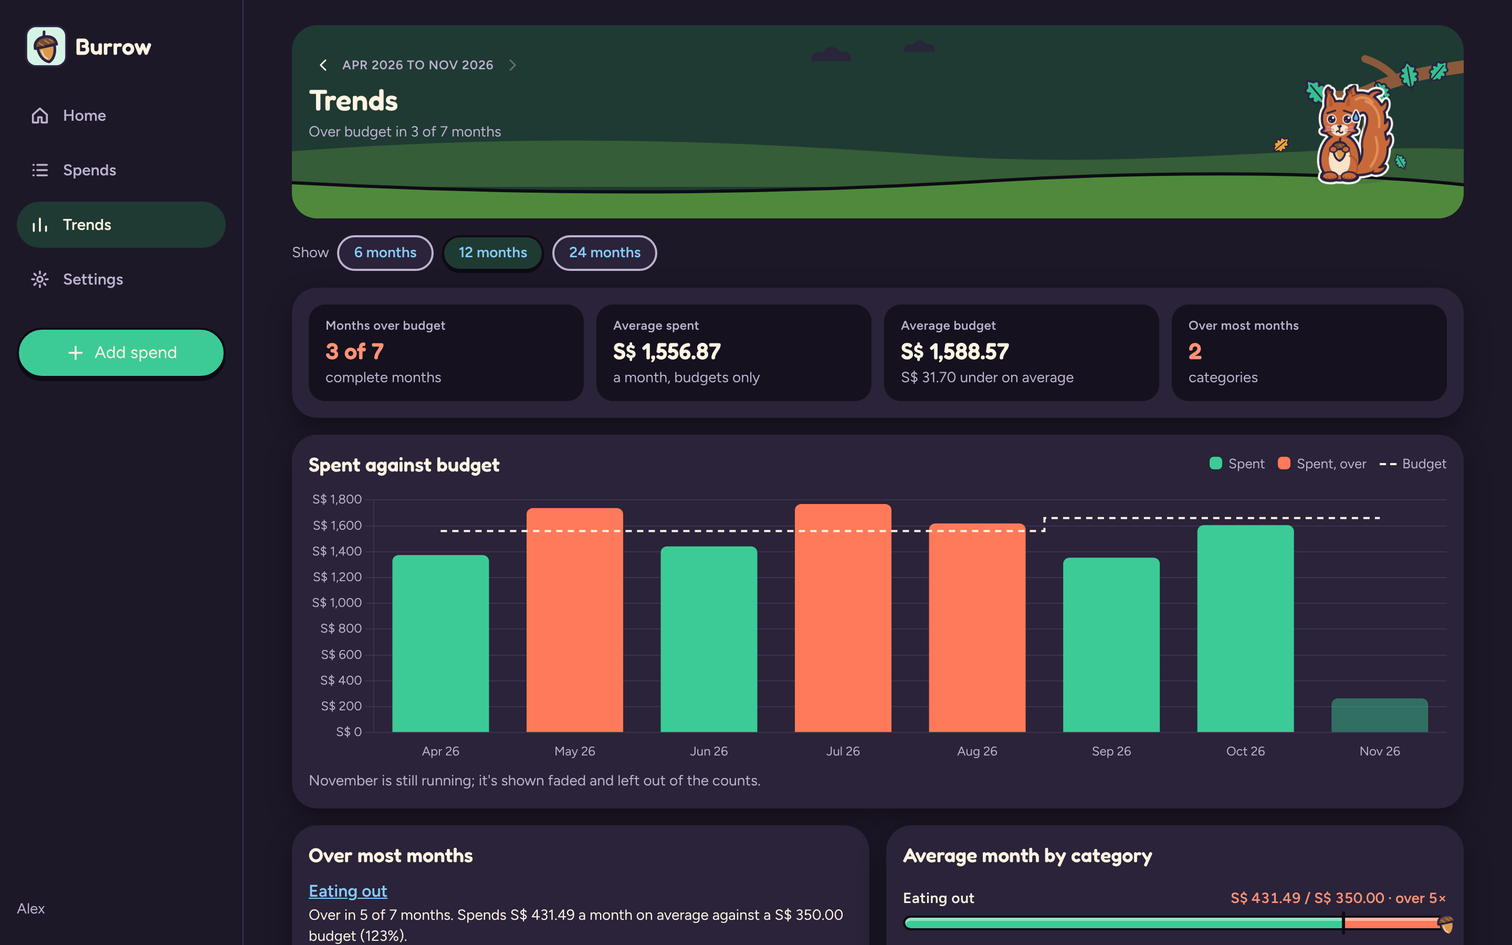
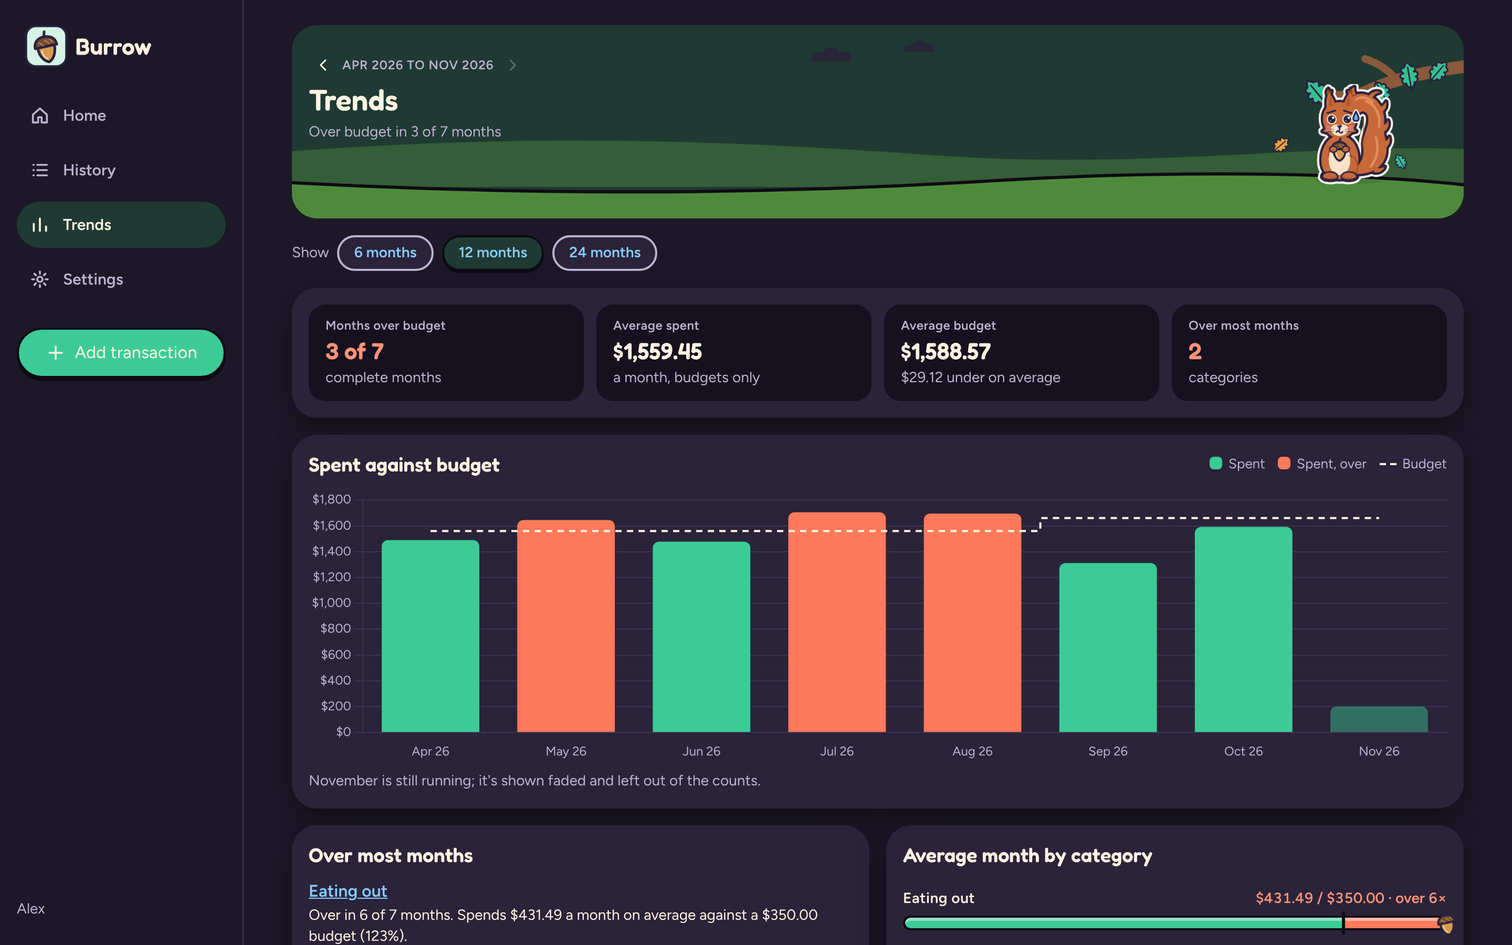
Document income and the new entry flow
Claude-Session: https://claude.ai/code/session_01TeKgyf51vhn4zPjuamFNj3

diff --git a/CLAUDE.md b/CLAUDE.md
@@ -6,7 +6,7 @@ This file provides guidance to Claude Code (claude.ai/code) when working with co
 
 Burrow is a personal finance tracker, published at `github.com/theepicflyer/burrow` (public, AGPL-3.0). It is a **hard fork** of `eitchtee/WYGIWYH`: upstream history is kept up to the fork point, but upstream is not tracked or merged. Internal names still say WYGIWYH (the `app/WYGIWYH/` Django project, `wygiwyh` DB/user, `wygiwyh_*` theme keys); leave them, renaming them buys nothing and breaks existing deployments. User-visible text says Burrow, and the README credits WYGIWYH.
 
-The app is now the **ledger** (`app/apps/ledger/`): a shared household list of spends with budget categories, sinking funds, recurring spends and trends, rebuilt from scratch on its own models and UI. The WYGIWYH apps (accounts, currencies, transactions, budgets, ...) are still installed and reachable under `/legacy/` until the old data has been imported and checked; new work goes in the ledger, not there.
+The app is now the **ledger** (`app/apps/ledger/`): a shared household list of transactions (expenses and income) with budget categories, sinking funds, income categories, recurring transactions and trends, rebuilt from scratch on its own models and UI. The WYGIWYH apps (accounts, currencies, transactions, budgets, ...) are still installed and reachable under `/legacy/` until the old data has been imported and checked; new work goes in the ledger, not there.
 
 The repo is public. Never commit personal data: real names, emails, hostnames, amounts from a real ledger, DB dumps. Use `example.com` and fictional data in docs, tests and screenshots.
 
@@ -83,24 +83,24 @@ Django 5.2 + htmx + django-cotton + Vite for assets. Backed by Postgres 15 and P
 
 ### The ledger (`app/apps/ledger/`)
 
-One shared ledger: every signed-in user sees and edits everything, so ledger models have no `owner`/visibility and views do no per-user filtering (`created_by` only records who entered a spend). There are no accounts or wallet balances.
+One shared ledger: every signed-in user sees and edits everything, so ledger models have no `owner`/visibility and views do no per-user filtering (`created_by` only records who entered a transaction). There are no accounts or wallet balances.
 
-- **`Category`**: `kind` is `budget` (planned monthly spending) or `fund` (sinking fund). Funds also have `opening_balance` and an optional `target`.
+- **`Category`**: `kind` is `budget` (planned monthly spending), `fund` (sinking fund) or `income` (pay, interest; no monthly amount). Funds also have `opening_balance` and an optional `target`. An income category takes income only (forms and MCP refuse an expense there).
 - **`MonthlyAmount`**: effective-dated monthly budget (or fund top-up): the amount for month M is the latest row with `start_month <= M`, 0 before the first. `Category.set_amount(amount, from_month)` changes it from that month on, so **past months keep their amount and past trends never move**. Preserve this; never rewrite old rows to apply a new amount.
-- **`Transaction`**: `amount` is signed (positive = spend, negative = money back or money into a fund), `date` is when it happened or was billed, `month` (day 1) is the month it counts toward. May's transport bill paid on 10 June has `date=2026-06-10, month=2026-05-01`. All budget and fund maths use `month`, never `date`.
-- **`Recurring`**: a schedule (`every` × week/month/year from `start_date`, optional `end_date`, `month_offset` 0 or −1). `services.generate_due()` creates entries only once they fall due (pages and an hourly task call it), so editing a rule changes every entry still to come and nothing already created. `last_generated` is owned by `generate_due`: `Recurring.save()` skips it unless it is named in `update_fields`. Occurrences are computed from `start_date` each time so the 31st never drifts.
+- **`Transaction`**: `type` is `expense` or `income` and `amount` is always positive. Income in a budget or fund category is money back (a refund, or money put into a fund); budget and fund maths use net spend (expenses − income, `services.net_amount()`), and `Book.received()` is its negation for income categories. `date` is when it happened or was billed, `month` (day 1) is the month it counts toward. May's transport bill paid on 10 June has `date=2026-06-10, month=2026-05-01`. All budget and fund maths use `month`, never `date`.
+- **`Recurring`**: a `type`, amount and category on a schedule (`every` × week/month/year from `start_date`, optional `end_date`, `month_offset` 0 or −1). `services.generate_due()` creates entries only once they fall due (pages and an hourly task call it), so editing a rule changes every entry still to come and nothing already created. `last_generated` is owned by `generate_due`: `Recurring.save()` skips it unless it is named in `update_fields`. Occurrences are computed from `start_date` each time so the 31st never drifts.
 - **Fund balance** at the end of M = `opening_balance` + top-ups from the fund's first `MonthlyAmount` month through M − transactions with `month <= M`. It is computed, never stored or materialized.
-- **`services.py`**: `Book` loads all monthly amounts and per-(category, month) totals in two queries; `month_status()` (Home), `analysis()` (Trends: months over, averages, `consistently_over`, fund balance series; running months are `partial` and excluded from counts, as are months before a category had a budget or spend), `category_history()`, `categories_for_entry()` (chips by recent use), `title_suggestions()`, `generate_due()`, `upcoming()`.
+- **`services.py`**: `Book` loads all monthly amounts and per-(category, month) totals in two queries; `month_status()` (Home: budgets, funds, income lines, `income`/`out`/`net`), `analysis()` (Trends: months over, averages, `consistently_over`, fund balance series, monthly in/out `flows`; running months are `partial` and excluded from counts, as are months before a category had a budget or spend), `category_history()`, `categories_for_entry()` (chips by recent use), `title_suggestions()`, `generate_due()`, `upcoming()`.
 - Budgets and funds answer different questions (did spend stay under budget vs what's saved); keep them visually and semantically apart. Home's ring and "left" are budgets only.
-- **`LedgerSettings`** (single row): the currency symbol. Amounts are one currency; there is no conversion.
+- Amounts are one currency, always shown with a plain `$` (`$1,234.50`); there is no currency setting or conversion.
 - **`mcp.py`**: the MCP toolset (see `docs/MCP.md`); each tool checks scope itself.
 - **`importer.py`** + `manage.py import_wygiwyh [--dry-run] [--replace]`: one-off import of the WYGIWYH tables into the ledger (auto-allocations become `MonthlyAmount` top-ups; per-month budgets become effective-dated rows; the report compares fund balances with the old ones). `manage.py seed_ledger` fills an empty ledger with fictional data for local work and screenshots.
 
 ### Pages and URLs
 
-`apps/ledger/urls.py` (namespace `ledger`) is mounted at `/`: Home (`/`: month ring, budget meters, fund stashes, coming up, latest), Spends (`/spends/`: search and filters, paged by day), Trends (`/trends/`), category detail (`/categories/<id>/`), Settings (`/settings/`: categories, the all-amounts editor at `/settings/budgets/`, recurring at `/recurring/`, currency, theme, API tokens for MCP), login/logout. Navigation is the bottom nav on phones and the side rail from 1024px (`templates/ledger/partials/`).
+`apps/ledger/urls.py` (namespace `ledger`) is mounted at `/`: Home (`/`: month ring, budget meters, in and out, fund stashes, coming up, latest), History (`/history/`: search, type/month/category filters, paged by day), Trends (`/trends/`), category detail (`/categories/<id>/`), Settings (`/settings/`: categories, the all-amounts editor at `/settings/budgets/`, recurring at `/recurring/`, currency, theme, API tokens for MCP), login/logout. Navigation is the bottom nav on phones and the side rail from 1024px (`templates/ledger/partials/`).
 
-The add/edit spend sheet (`partials/sheet.html` + `frontend/src/ledger/sheet.js`) is on every page: amount (accepts sums like `8+4.5`), title (past titles suggest their category), category chips, save; date, counts-toward month, note, money back and repeat sit behind one details row. `[data-add-spend]` opens it empty, `[data-spend='{json}']` (from `Transaction.as_entry()`) opens it to edit. It posts to JSON endpoints, then re-renders `#page-body` from the current URL with htmx. `/?add=1` opens it (the PWA shortcut).
+The add/edit flow (`partials/entry.html` + `frontend/src/ledger/entry.js`) is on every page. It is one page at a time so nothing hides behind the phone keyboard: amount on its own numpad (with the expense/income switch; no keyboard), title (keyboard; Return moves on, and tapping a past title fills its category and skips to the review), category grid (a tap moves on), review (date, counts-toward month, note and repeat are optional rows; one button saves). Editing opens on the review page. On phones the overlay is sized to `visualViewport` (`--vvh`/`--vvt`) so it always ends at the keyboard's top edge; keep each page's controls in the top part of the page. `[data-add-spend]` opens it empty, `[data-spend='{json}']` (from `Transaction.as_entry()`) opens it to edit. It posts to the JSON endpoints under `/transactions/`, then re-renders `#page-body` from the current URL with htmx. `/?add=1` opens it (the PWA shortcut). Desktop: type the amount on the keyboard, Enter moves on.
 
 ### Templates
 
@@ -110,19 +110,19 @@ The add/edit spend sheet (`partials/sheet.html` + `frontend/src/ledger/sheet.js`
 
 ### Frontend
 
-Vite-built; sources in `frontend/src/`, manifest emitted to `app/static_files/manifest.json` and consumed via django-vite. Two entries: `ledger.js` (the app: `styles/ledger.css`, htmx, the sheet, toasts, theme, charts) and `main.js` (legacy only: Bootstrap, DaisyUI, Alpine, hyperscript, tom-select). The ledger entry is vanilla JS with no `eval` (no Alpine, `htmx.config.allowEval = false`) so the CSP can be enforced later; don't add inline event handlers. Chart.js loads on demand for `<canvas data-chart="budget|funds|fund" data-src="<json_script id>">`.
+Vite-built; sources in `frontend/src/`, manifest emitted to `app/static_files/manifest.json` and consumed via django-vite. Two entries: `ledger.js` (the app: `styles/ledger.css`, htmx, the entry flow, toasts, theme, charts) and `main.js` (legacy only: Bootstrap, DaisyUI, Alpine, hyperscript, tom-select). The ledger entry is vanilla JS with no `eval` (no Alpine, `htmx.config.allowEval = false`) so the CSP can be enforced later; don't add inline event handlers. Chart.js loads on demand for `<canvas data-chart="budget|funds|fund|inout|income" data-src="<json_script id>">`.
 
 For prod-parity builds, vite runs inside the Dockerfile's `vite_build` stage — no host npm needed. For HMR-style iteration, use the dev compose.
 
 ### Burrow design system
 
-The UI follows **Burrow**, the household's shared design system (its own design-system artifact; this app is "money", Kacang the squirrel's app, so `--accent` is mint). Read the Burrow README before UI work: data stays calm, the animals live at the edges; at most one full-size animal per screen (the Habitat header's; in-card empty states use `<c-ledger.empty>` with a 56px animal or none); pick the animal by job (Kacang = home/budgets/trends, Gali = spends/history/search, Kayu = settings/editing/errors) and the mood by moment.
+The UI follows **Burrow**, the household's shared design system (its own design-system artifact; this app is "money", Kacang the squirrel's app, so `--accent` is mint). Read the Burrow README before UI work: data stays calm, the animals live at the edges; at most one full-size animal per screen (the Habitat header's; in-card empty states use `<c-ledger.empty>` with a 56px animal or none); pick the animal by job (Kacang = home/budgets/trends, Gali = history/search, Kayu = settings/editing/errors) and the mood by moment.
 
 - **Sources are vendored** in `frontend/burrow/` (`bundle.js`, `bundle.css`, `tokens.json`, copied from the artifact). After updating them run `node frontend/burrow/generate.cjs`, which regenerates `frontend/src/styles/burrow.generated.css` (tokens + `bh-*` classes), `app/static/img/burrow/**` (cast + traces + loader SVGs) and `app/templates/burrow/scenes/*.html` (theme-following inline scenery). Never hand-edit those outputs.
-- `frontend/src/styles/ledger.css` is the app's stylesheet on top of the generated one: layout, sheet, spend rows, meters, heatmap, forms. Native `<select>` is visible and styled (`.select`). Grid children that hold scrollers need `min-width: 0` (already set for `.cols`, `.stack`, `.form-grid` and the sheet form) or they stretch the page sideways on phones.
+- `frontend/src/styles/ledger.css` is the app's stylesheet on top of the generated one: layout, entry flow, transaction rows, meters, heatmap, forms. Native `<select>` is visible and styled (`.select`). Grid children that hold scrollers need `min-width: 0` (already set for `.cols`, `.stack` and `.form-grid`) or they stretch the page sideways on phones.
 - Theme: "match device" by default, or light/dark saved in `localStorage` (`burrow-theme`); an inline script in `<head>` sets `data-theme` (`wygiwyh_light`/`wygiwyh_dark`) before paint.
 - **Cotton components** in `templates/cotton/burrow/`: `habitat` (page header band; `kind` oak/burrow/river/meadow), `mascot`, `trace`, `meter` (acorn-capped, `percent` + `over` + `limit`), `stash` (sinking fund, `acorns` 0–15), `wreath` (month ring, `leaves` 0–26). Django can't do inline maths, so callers compute counts in Python (`FundLine.acorns`, `MonthStatus.leaves`) or with `{% widthratio %}`. Cotton `:attr` takes a variable, not an expression.
-- Money: `{% money value %}` (`S$ 1,234.50`); `{% money value signed=True %}` on spend rows (spend `−`, money back `+` in mint). Balances stay unsigned. `{% icon name size %}` draws the Burrow stroke icons.
+- Money: `{% money value %}` (`$1,234.50`, `−$5.00` when negative); `{% money t.amount signed=True type=t.type %}` on transaction rows (expense `−`, income `+` in mint). Balances stay unsigned. `{% icon name size %}` draws the Burrow stroke icons.
 - Copy: sentence case, verb + object buttons, no emoji; the animals carry the emotion.
 
 ### Legacy WYGIWYH apps

diff --git a/docs/MCP.md b/docs/MCP.md
@@ -2,8 +2,8 @@
 
 Burrow exposes a Model Context Protocol (MCP) endpoint at **`/mcp`** so an agent
 (claude.ai custom connector, Claude Code CLI, or any MCP client) can read the
-household ledger and, with write access, log spends. It is a **stateless
-streamable-HTTP** server built on
+household ledger and, with write access, log expenses and income. It is a
+**stateless streamable-HTTP** server built on
 [`django-mcp-server`](https://pypi.org/project/django-mcp-server/). The tools are a
 hand-written `MCPToolset` in `app/apps/ledger/mcp.py` over the ledger models and
 `apps.ledger.services`, so agents see the same numbers as the app.
@@ -104,40 +104,45 @@ Then list tools / use them from a Claude Code session. For a local dev stack the
 URL is `http://localhost:<port>/mcp`.
 
 > **Write access.** A `read_write` token (or an OAuth connection granted
-> `mcp:write`) lets the model add, edit and **permanently delete** spends. Use
-> `read_only` unless you want the agent to log spends, and review what it
-> proposes.
+> `mcp:write`) lets the model add, edit and **permanently delete** transactions.
+> Use `read_only` unless you want the agent to log transactions, and review what
+> it proposes.
 
 
 ## Tools
 
-Amounts are 2-decimal strings, dates `YYYY-MM-DD`, months `YYYY-MM`. A spend is a
-positive amount; a negative amount is money back (a refund, or money put into a
-fund). `date` is when it happened; `month` is the month it counts toward. Every
-tool except `get_ledger_info` first creates any recurring entries that have
-fallen due.
+Amounts are 2-decimal strings in dollars (`$`), dates `YYYY-MM-DD`, months
+`YYYY-MM`. Every transaction has a `type`, `expense` or `income`, and a positive
+`amount`. Categories are `budget`, `fund` or `income` (salary and the like).
+Income in a budget or fund category is money back (a refund, or money put into a
+fund), so a budget's or fund's `spent` is net of it. `income` is what the income
+categories received, `out` is what budgets and funds spent, and `net` is income
+minus out. `date` is when it happened; `month` is the month it counts toward.
+Every tool except `get_ledger_info` first creates any recurring entries that
+have fallen due.
 
 Read:
 
 | Tool | What it returns |
 | --- | --- |
-| `get_ledger_info` | Currency, today, the current month, who is signed in, whether writes are allowed, and what the fields mean. |
-| `list_categories` | Categories with kind (budget or fund), this month's amount, and for funds the balance and target. |
-| `list_transactions` | A page of transactions (filter by `month`, `date_from`/`date_to`, `category_id`, `search`), the total count and total amount. Limit is capped at 500. |
-| `get_month_summary` | Per budget category: budget, spent, left, over. Per fund: top-up, spent, month-end balance. Pace for the current month. |
-| `get_budget_analysis` | Per category per month budget and spent, months over, averages, `consistently_over`; monthly totals; fund balance series. Running months are `partial` and left out of counts. |
-| `list_recurring` | Recurring rules with schedule, next date and the month that entry will count toward. |
+| `get_ledger_info` | Currency (`$`), today, the current month, who is signed in, whether writes are allowed, and what the fields mean. |
+| `list_categories` | Categories with kind (budget, fund or income), this month's amount (null for income), and for funds the balance and target. |
+| `list_transactions` | A page of transactions (filter by `month`, `date_from`/`date_to`, `category_id`, `type`, `search`), the total count, `total_expenses` and `total_income`. Limit is capped at 500. |
+| `get_month_summary` | Per budget category: budget, spent, left, over. Per fund: top-up, spent, month-end balance. Per income category: received. The month's `flow` (income, out, net). Pace for the current month. |
+| `get_budget_analysis` | Per budget category per month budget and spent, months over, averages, `consistently_over`; monthly totals; fund balance series; `flows`: income, out and net per month with their averages. Running months are `partial` and left out of counts and averages. |
+| `list_recurring` | Recurring rules with type, schedule, next date and the month that entry will count toward. |
 
 Write (needs write scope):
 
 | Tool | What it does |
 | --- | --- |
-| `add_transaction` | Adds a spend. `date` defaults to today, `month` to the date's month. |
-| `update_transaction` | Partial update of one transaction. |
+| `add_transaction` | Adds an expense or income. `type` defaults from the category (`income` for an income category, else `expense`), `date` to today, `month` to the date's month. |
+| `update_transaction` | Partial update of one transaction, including its type. |
 | `delete_transaction` | Deletes one transaction. |
 
 There are no tools for editing categories, monthly amounts or recurring rules;
 do those in the app.
 
-Bad input (unknown category, bad date, zero amount, more than 2 decimals) comes
+Bad input (unknown category, bad date, an amount that is not more than 0 or has
+more than 2 decimals, an unknown type, an expense in an income category) comes
 back as an MCP error result with a message the agent can act on.

diff --git a/README.md b/README.md
@@ -4,18 +4,19 @@
   Burrow
 </h1>
 
-<h4 align="center">A self-hosted household spending tracker with budgets and sinking funds.</h4>
+<h4 align="center">A self-hosted household money tracker with budgets and sinking funds.</h4>
 
-Burrow is a shared ledger for a household: everyone signs in and sees the same list of spends. It started as a hard fork of [WYGIWYH](https://github.com/eitchtee/WYGIWYH) by [Herculino Trotta](https://github.com/eitchtee) and has since been rebuilt around what a household budget needs:
+Burrow is a shared ledger for a household: everyone signs in and sees the same list of transactions, expenses and income. It started as a hard fork of [WYGIWYH](https://github.com/eitchtee/WYGIWYH) by [Herculino Trotta](https://github.com/eitchtee) and has since been rebuilt around what a household budget needs:
 
-* **Fast entry.** Amount, title, category, save. Past titles suggest their category; date, note and the rest are one tap away. Amounts can be sums (`8+4.5`).
+* **Fast entry on a phone.** One page at a time, each above the keyboard: amount on a numpad, title (a past title brings its category), category, save. Date, month, note and repeat are optional on the last page.
+* **Income and expenses.** Income categories for pay and the like; money back in a budget or fund counts against what was spent. Home and Trends show what came in, what went out and what was left over.
 * **Budgets.** Each category has a monthly budget. Changing it applies from a month on, so past months keep the budget they had.
 * **Sinking funds.** A fund grows by a set amount on the 1st of each month and shrinks by what you spend from it. Burrow tracks the balance.
 * **Date and month are separate.** A bill paid on 10 June can count toward May.
-* **Recurring spends** are added when they fall due, so editing one changes every entry still to come.
+* **Recurring** expenses and income are added when they fall due, so editing one changes every entry still to come.
 * **Trends** show which categories go over budget month after month, and whether each fund's top-up covers what you spend from it.
 * A phone-first PWA in the Burrow design system, with light and dark themes. Sign in with OIDC (for example Pocket ID).
-* An MCP server at `/mcp` with OAuth, so Claude and other agents can read the ledger and log spends. See [docs/MCP.md](docs/MCP.md).
+* An MCP server at `/mcp` with OAuth, so Claude and other agents can read the ledger and log transactions. See [docs/MCP.md](docs/MCP.md).
 
 Burrow does not track upstream. The original WYGIWYH screens are still reachable under `/legacy/` while old data is imported; see [MIGRATIONS.md](MIGRATIONS.md).
 
@@ -24,7 +25,7 @@ Burrow does not track upstream. The original WYGIWYH screens are still reachable
   <img src=".github/img/screenshots/home_dark.png" alt="Home, dark theme" width="49%" /> <img src=".github/img/screenshots/trends_dark.png" alt="Trends, dark theme" width="49%" />
 </p>
 <p align="center">
-  <img src=".github/img/screenshots/phone_home.png" alt="Phone: home" width="24%" /> <img src=".github/img/screenshots/phone_add.png" alt="Phone: add a spend" width="24%" /> <img src=".github/img/screenshots/phone_spends.png" alt="Phone: spends" width="24%" /> <img src=".github/img/screenshots/phone_trends.png" alt="Phone: trends" width="24%" />
+  <img src=".github/img/screenshots/phone_home.png" alt="Phone: home" width="24%" /> <img src=".github/img/screenshots/phone_add.png" alt="Phone: adding a transaction" width="24%" /> <img src=".github/img/screenshots/phone_history.png" alt="Phone: history" width="24%" /> <img src=".github/img/screenshots/phone_trends.png" alt="Phone: trends" width="24%" />
 </p>
 
 # Running it
@@ -126,7 +127,7 @@ Replace `https://your.burrow.domain` with the actual URL where your Burrow insta
 # Caveats
 
 * Burrow tracks spending, not wallets: there are no account balances, only fund balances.
-* One currency. Amounts are not converted.
+* One currency, shown as `$`. Amounts are not converted.
 * Everyone who can sign in sees and edits the whole ledger.
 
 # Credits and license

diff --git a/MIGRATIONS.md b/MIGRATIONS.md
@@ -13,7 +13,7 @@ template, then trim what doesn't apply.
 
 End-state: the app at `/` is the new ledger (`apps.ledger`), with its own
 tables (`ledger_category`, `ledger_monthlyamount`, `ledger_transaction`,
-`ledger_recurring`, `ledger_ledgersettings`). The WYGIWYH screens move to
+`ledger_recurring`). The WYGIWYH screens move to
 `/legacy/` and their tables are left untouched. The new tables start empty, so
 the old data has to be imported once. Nothing is deleted.
 
@@ -31,8 +31,12 @@ the old data has to be imported once. Nothing is deleted.
    Read the report. Check the "Fund balances" section: each fund should say
    `ok`. A fund marked `DIFFERS` comes with a note explaining why (for example
    a monthly default that the old app had not allocated yet this month).
-   Check the skipped counts (unpaid transactions, uncategorized income,
-   soft-deleted rows, auto-allocation legs) look plausible.
+   Check the skipped counts (unpaid transactions, zero amounts, soft-deleted
+   rows, auto-allocation legs) look plausible. Income is imported too:
+   income-only categories become income categories and uncategorized income
+   goes to "Other income". The old app had no marker for a transfer between
+   accounts, so both legs are imported; the "possible transfers" note counts
+   the likely pairs and says where each leg went, to review after the import.
 3. Import for real:
 
    ```sh
